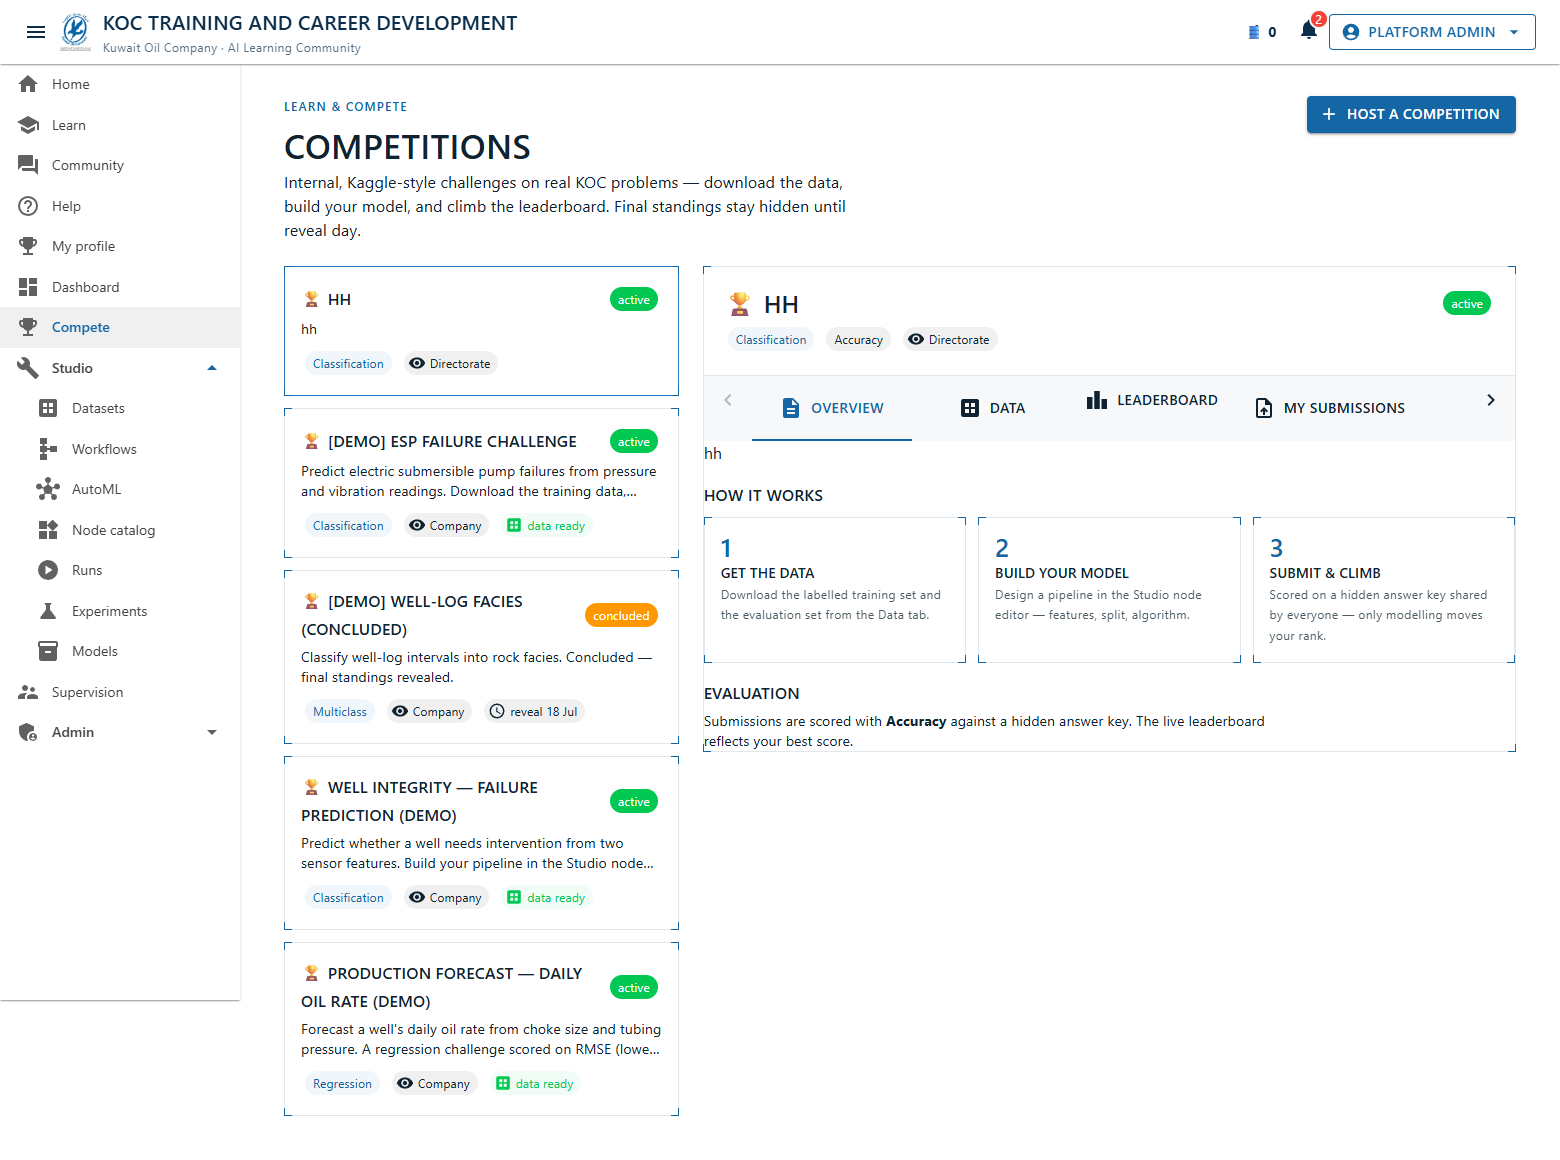
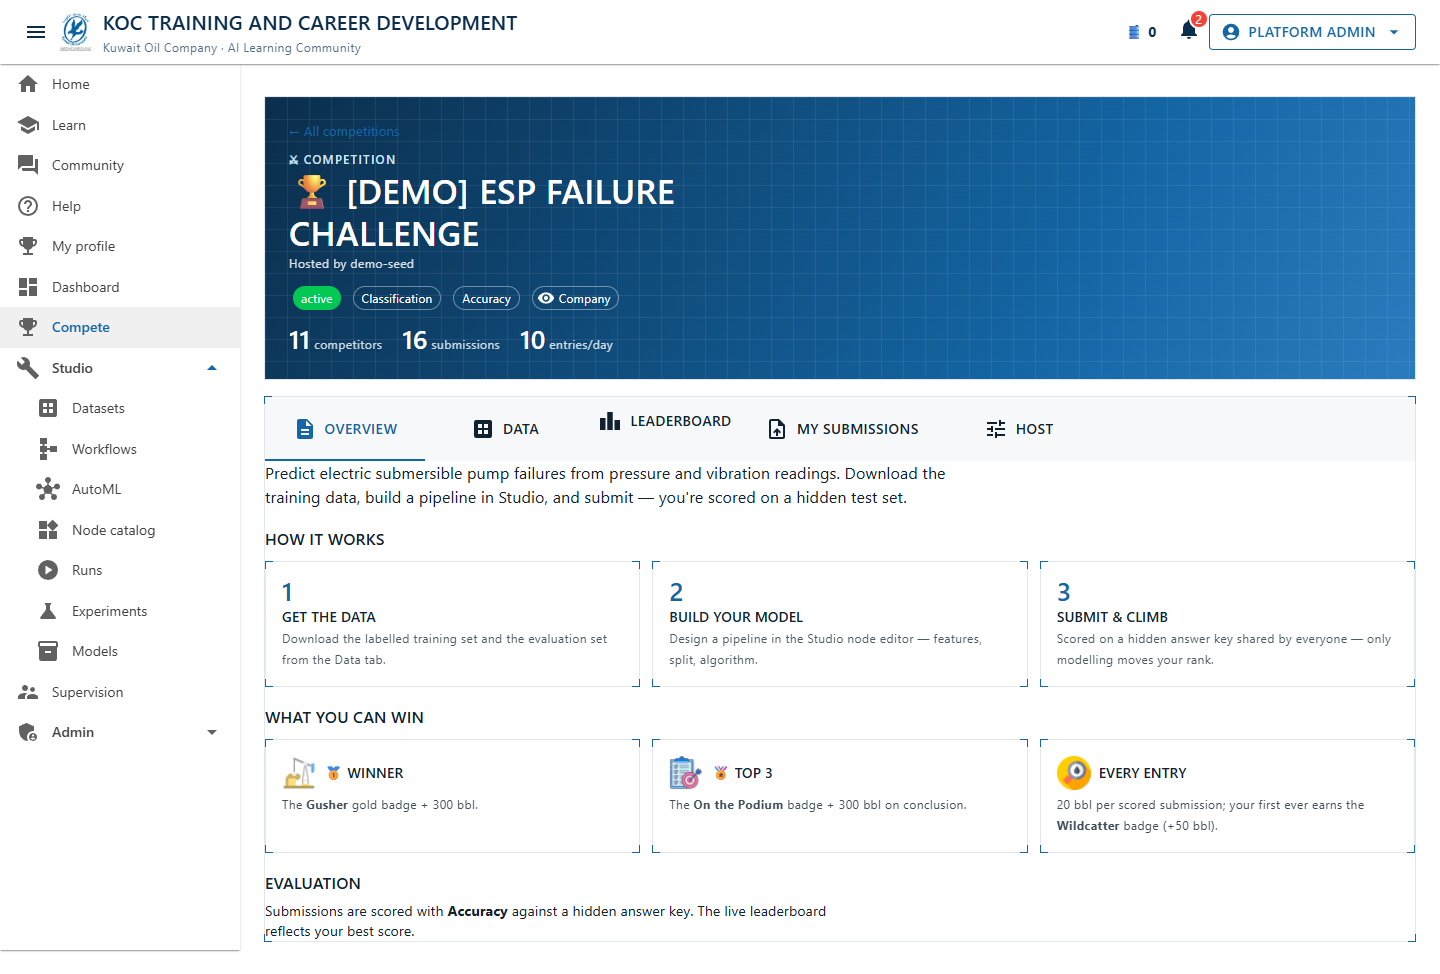
Arena stage 6: featured-selection polish, refreshed help visuals, docs
- Featured/spotlight selection now prefers the liveliest race: nearest reveal,
  then most participants, then newest (Home hero + /compete sort) — an empty
  test competition no longer outranks an active challenge with 11 competitors.
- Visual verification via Playwright against the running app: refreshed
  docs/help screenshots for the new landing hero, the arena grid (spotlight
  podium + filters), the /compete/{id} page, and a new live-leaderboard shot
  (podium + medals + final standings); help page regenerated with the new
  gallery entry.
- USER_GUIDE Compete section rewritten for the arena (per-competition pages,
  countdowns, rank arrows, rewards panel); MASTER_TODO_TRACKER records the
  six-stage Arena initiative as complete.

Gates: build -warnaserror clean, format verified, 274 tests green.

diff --git a/docs/help/index.html b/docs/help/index.html
@@ -114,14 +114,20 @@ see it</strong> (Team / Group / Directorate / Company) — you&#39;ll see a live
 a CSV (or import from a URL); publishing freezes a version, and a new upload starts a fresh draft.</p>
 <p><img src="img/datasets.png" alt="Datasets — governed, versioned data with a visibility picker"></p>
 <h2>6. Compete</h2>
-<p><strong>Compete</strong> hosts internal, Kaggle-style challenges on real KOC problems.</p>
+<p><strong>Compete</strong> is the arena: internal, Kaggle-style challenges on real KOC problems. The landing page
+leads with the <strong>featured competition</strong> — a live countdown to reveal day, the current top-3 podium,
+and an <strong>Enter the arena</strong> button.</p>
 <ol>
-<li><strong>Browse</strong> competitions and open one to read its overview, get the data, and see the leaderboard.</li>
+<li><strong>Browse</strong> the competition grid — each card shows competitors, submissions, the scoring metric,
+and a countdown. Every competition has <strong>its own page</strong> (<code>/compete/…</code>) you can bookmark or share;
+notifications take you straight there.</li>
 <li><strong>Download</strong> the training set (labelled) and the evaluation set (no labels) from the Data tab.</li>
 <li><strong>Build a pipeline</strong> in the Studio for the competition&#39;s task.</li>
 <li><strong>Submit your pipeline</strong> — the platform trains and scores it on a <strong>hidden</strong> test set (the same data for
-everyone), so only your modelling choices move your rank.</li>
-<li>Watch the <strong>live leaderboard</strong> update in real time. Final standings are revealed on the host&#39;s chosen day.</li>
+everyone), so only your modelling choices move your rank. Every scored entry earns Barrels; the
+<strong>What you can win</strong> panel on each competition lists the podium rewards and badges.</li>
+<li>Watch the <strong>live leaderboard</strong> update in real time — rank arrows (▲/▼/NEW) show who&#39;s moving.
+Final standings are revealed on the host&#39;s chosen day.</li>
 </ol>
 <p><img src="img/compete-detail.png" alt="A competition — overview, data, leaderboard, and your submissions"></p>
 <p>Anyone in a competition&#39;s scope can enter. <strong>Hosting</strong> a competition requires permission from an admin — if
@@ -528,7 +534,7 @@ rules), <strong>EndToEndTests</strong>. Warnings are errors for non-test project
 
   <section class="major" id="more"><h2>More screens</h2>
     <p class="lede">Other screens at a glance. Click any to open it full size.</p>
-    <div class="gallery"><figure class="shot"><a href="img/dashboard.png" target="_blank" rel="noopener"><img src="img/dashboard.png" alt="Dashboard" loading="lazy" onerror="this.closest('figure').style.display='none'"></a><figcaption><b>Dashboard.</b> Your standings, with a team overview if you lead people.</figcaption></figure><figure class="shot"><a href="img/learn.png" target="_blank" rel="noopener"><img src="img/learn.png" alt="Learn" loading="lazy" onerror="this.closest('figure').style.display='none'"></a><figcaption><b>Learn.</b> Guided learning tracks.</figcaption></figure><figure class="shot"><a href="img/learn-track.png" target="_blank" rel="noopener"><img src="img/learn-track.png" alt="Inside a track" loading="lazy" onerror="this.closest('figure').style.display='none'"></a><figcaption><b>Inside a track.</b> A track’s lessons and your progress.</figcaption></figure><figure class="shot"><a href="img/community.png" target="_blank" rel="noopener"><img src="img/community.png" alt="Community" loading="lazy" onerror="this.closest('figure').style.display='none'"></a><figcaption><b>Community.</b> Discussions and replies, scoped to your org.</figcaption></figure><figure class="shot"><a href="img/workflows.png" target="_blank" rel="noopener"><img src="img/workflows.png" alt="Workflows" loading="lazy" onerror="this.closest('figure').style.display='none'"></a><figcaption><b>Workflows.</b> The versioned pipeline registry.</figcaption></figure><figure class="shot"><a href="img/new-workflow.png" target="_blank" rel="noopener"><img src="img/new-workflow.png" alt="New workflow" loading="lazy" onerror="this.closest('figure').style.display='none'"></a><figcaption><b>New workflow.</b> Start a pipeline (optionally targeting a competition).</figcaption></figure><figure class="shot"><a href="img/create-competition.png" target="_blank" rel="noopener"><img src="img/create-competition.png" alt="Host a competition" loading="lazy" onerror="this.closest('figure').style.display='none'"></a><figcaption><b>Host a competition.</b> The guided create wizard (granted users).</figcaption></figure><figure class="shot"><a href="img/studio.png" target="_blank" rel="noopener"><img src="img/studio.png" alt="AutoML" loading="lazy" onerror="this.closest('figure').style.display='none'"></a><figcaption><b>AutoML.</b> Train a model over a CSV in a few clicks.</figcaption></figure><figure class="shot"><a href="img/runs.png" target="_blank" rel="noopener"><img src="img/runs.png" alt="Runs" loading="lazy" onerror="this.closest('figure').style.display='none'"></a><figcaption><b>Runs.</b> Background jobs — status and logs.</figcaption></figure><figure class="shot"><a href="img/experiments.png" target="_blank" rel="noopener"><img src="img/experiments.png" alt="Experiments" loading="lazy" onerror="this.closest('figure').style.display='none'"></a><figcaption><b>Experiments.</b> Compare runs, metrics, and parameters.</figcaption></figure><figure class="shot"><a href="img/models.png" target="_blank" rel="noopener"><img src="img/models.png" alt="Models" loading="lazy" onerror="this.closest('figure').style.display='none'"></a><figcaption><b>Models.</b> Register → approve → deploy.</figcaption></figure><figure class="shot"><a href="img/help.png" target="_blank" rel="noopener"><img src="img/help.png" alt="In-app help" loading="lazy" onerror="this.closest('figure').style.display='none'"></a><figcaption><b>In-app help.</b> Searchable articles and FAQ.</figcaption></figure></div>
+    <div class="gallery"><figure class="shot"><a href="img/dashboard.png" target="_blank" rel="noopener"><img src="img/dashboard.png" alt="Dashboard" loading="lazy" onerror="this.closest('figure').style.display='none'"></a><figcaption><b>Dashboard.</b> Your standings, with a team overview if you lead people.</figcaption></figure><figure class="shot"><a href="img/learn.png" target="_blank" rel="noopener"><img src="img/learn.png" alt="Learn" loading="lazy" onerror="this.closest('figure').style.display='none'"></a><figcaption><b>Learn.</b> Guided learning tracks.</figcaption></figure><figure class="shot"><a href="img/learn-track.png" target="_blank" rel="noopener"><img src="img/learn-track.png" alt="Inside a track" loading="lazy" onerror="this.closest('figure').style.display='none'"></a><figcaption><b>Inside a track.</b> A track’s lessons and your progress.</figcaption></figure><figure class="shot"><a href="img/community.png" target="_blank" rel="noopener"><img src="img/community.png" alt="Community" loading="lazy" onerror="this.closest('figure').style.display='none'"></a><figcaption><b>Community.</b> Discussions and replies, scoped to your org.</figcaption></figure><figure class="shot"><a href="img/workflows.png" target="_blank" rel="noopener"><img src="img/workflows.png" alt="Workflows" loading="lazy" onerror="this.closest('figure').style.display='none'"></a><figcaption><b>Workflows.</b> The versioned pipeline registry.</figcaption></figure><figure class="shot"><a href="img/new-workflow.png" target="_blank" rel="noopener"><img src="img/new-workflow.png" alt="New workflow" loading="lazy" onerror="this.closest('figure').style.display='none'"></a><figcaption><b>New workflow.</b> Start a pipeline (optionally targeting a competition).</figcaption></figure><figure class="shot"><a href="img/create-competition.png" target="_blank" rel="noopener"><img src="img/create-competition.png" alt="Host a competition" loading="lazy" onerror="this.closest('figure').style.display='none'"></a><figcaption><b>Host a competition.</b> The guided create wizard (granted users).</figcaption></figure><figure class="shot"><a href="img/compete-leaderboard.png" target="_blank" rel="noopener"><img src="img/compete-leaderboard.png" alt="Live leaderboard" loading="lazy" onerror="this.closest('figure').style.display='none'"></a><figcaption><b>Live leaderboard.</b> Podium, medals, and live rank movement on a competition page.</figcaption></figure><figure class="shot"><a href="img/studio.png" target="_blank" rel="noopener"><img src="img/studio.png" alt="AutoML" loading="lazy" onerror="this.closest('figure').style.display='none'"></a><figcaption><b>AutoML.</b> Train a model over a CSV in a few clicks.</figcaption></figure><figure class="shot"><a href="img/runs.png" target="_blank" rel="noopener"><img src="img/runs.png" alt="Runs" loading="lazy" onerror="this.closest('figure').style.display='none'"></a><figcaption><b>Runs.</b> Background jobs — status and logs.</figcaption></figure><figure class="shot"><a href="img/experiments.png" target="_blank" rel="noopener"><img src="img/experiments.png" alt="Experiments" loading="lazy" onerror="this.closest('figure').style.display='none'"></a><figcaption><b>Experiments.</b> Compare runs, metrics, and parameters.</figcaption></figure><figure class="shot"><a href="img/models.png" target="_blank" rel="noopener"><img src="img/models.png" alt="Models" loading="lazy" onerror="this.closest('figure').style.display='none'"></a><figcaption><b>Models.</b> Register → approve → deploy.</figcaption></figure><figure class="shot"><a href="img/help.png" target="_blank" rel="noopener"><img src="img/help.png" alt="In-app help" loading="lazy" onerror="this.closest('figure').style.display='none'"></a><figcaption><b>In-app help.</b> Searchable articles and FAQ.</figcaption></figure></div>
   </section>
 </main>
 </div></body></html>

diff --git a/plans/koc-ai-community-platform/MASTER_TODO_TRACKER.md b/plans/koc-ai-community-platform/MASTER_TODO_TRACKER.md
@@ -278,6 +278,31 @@ call the API. Decisions & architecture: `19_WINFORMS_DESKTOP_STUDIO.md`.
     two new projects in the solution-layout; memory note `winforms-desktop-studio.md`. The RID is passed
     at publish time so the solution build stays cross-platform. **WinForms initiative complete.**
 
+## Competition Arena UI/UX revamp (landing + competitions)
+
+Decisions: featured-competition hero on Home; full Kaggle-style pages per competition
+(`/compete/{id}`); bold arena visuals (podiums, countdowns, live pulses, rank movement) inside the
+KOC blueprint theme. No DB schema change anywhere.
+
+29. ~~Stage 1 — DTO enrichment~~ ✅ DONE (2026-07-22) — `CompetitionDto` + ParticipantCount/
+    SubmissionCount/HostName/QuotaPerDay/MetricName/HigherIsBetter/CreatedUtc (append-only,
+    computed via `GetStatsAsync` in one grouped query + `IScorerRegistry`); shared
+    `CompetitionRewards` constants wired into `XpSources` so prize copy can't drift.
+30. ~~Stage 2 — arena vocabulary~~ ✅ DONE (2026-07-22) — koc-blueprint.css Arena section +
+    shared components: `CountdownTimer`, `RankMedal`, `PodiumBlock`, `CompetitionCard`,
+    `LiveBoard` (client-side ▲/▼/NEW rank movement), `CompetitionDisplay`; 9 bUnit tests.
+31. ~~Stage 3 — /compete/{id}~~ ✅ DONE (2026-07-22) — full-width arena page (banner + Overview/
+    Data/Leaderboard/Submissions/Host tabs, "What you can win" rewards strip, `?tab=` deep link);
+    SignalR joins `competition:{id}` and re-joins on reconnect; notification LinkUrls deep-link.
+32. ~~Stage 4 — /compete grid~~ ✅ DONE (2026-07-22) — browse grid of `CompetitionCard`s with
+    status/task filters + a spotlight card (single fetched podium); hosting lands on
+    `/compete/{id}?tab=host`; no per-card board fetches; 748→~170 lines.
+33. ~~Stage 5 — Home hero~~ ✅ DONE (2026-07-22) — landing leads with the featured competition
+    (nearest reveal): countdown, live top-3 podium, stats, prize strip, ENTER THE ARENA;
+    champions mini-card + live-competitions section run on the enriched DTO with deep links.
+34. ~~Stage 6 — polish + docs~~ ✅ DONE (2026-07-22) — user guide + tracker updated; visual
+    verification of the new pages via Playwright.
+
 ## Global definition of done
 
 ```bash

diff --git a/docs/USER_GUIDE.md b/docs/USER_GUIDE.md
@@ -68,14 +68,20 @@ a CSV (or import from a URL); publishing freezes a version, and a new upload sta
 
 ## 6. Compete
 
-**Compete** hosts internal, Kaggle-style challenges on real KOC problems.
+**Compete** is the arena: internal, Kaggle-style challenges on real KOC problems. The landing page
+leads with the **featured competition** — a live countdown to reveal day, the current top-3 podium,
+and an **Enter the arena** button.
 
-1. **Browse** competitions and open one to read its overview, get the data, and see the leaderboard.
+1. **Browse** the competition grid — each card shows competitors, submissions, the scoring metric,
+   and a countdown. Every competition has **its own page** (`/compete/…`) you can bookmark or share;
+   notifications take you straight there.
 2. **Download** the training set (labelled) and the evaluation set (no labels) from the Data tab.
 3. **Build a pipeline** in the Studio for the competition's task.
 4. **Submit your pipeline** — the platform trains and scores it on a **hidden** test set (the same data for
-   everyone), so only your modelling choices move your rank.
-5. Watch the **live leaderboard** update in real time. Final standings are revealed on the host's chosen day.
+   everyone), so only your modelling choices move your rank. Every scored entry earns Barrels; the
+   **What you can win** panel on each competition lists the podium rewards and badges.
+5. Watch the **live leaderboard** update in real time — rank arrows (▲/▼/NEW) show who's moving.
+   Final standings are revealed on the host's chosen day.
 
 ![A competition — overview, data, leaderboard, and your submissions](help/img/compete-detail.png)
 
